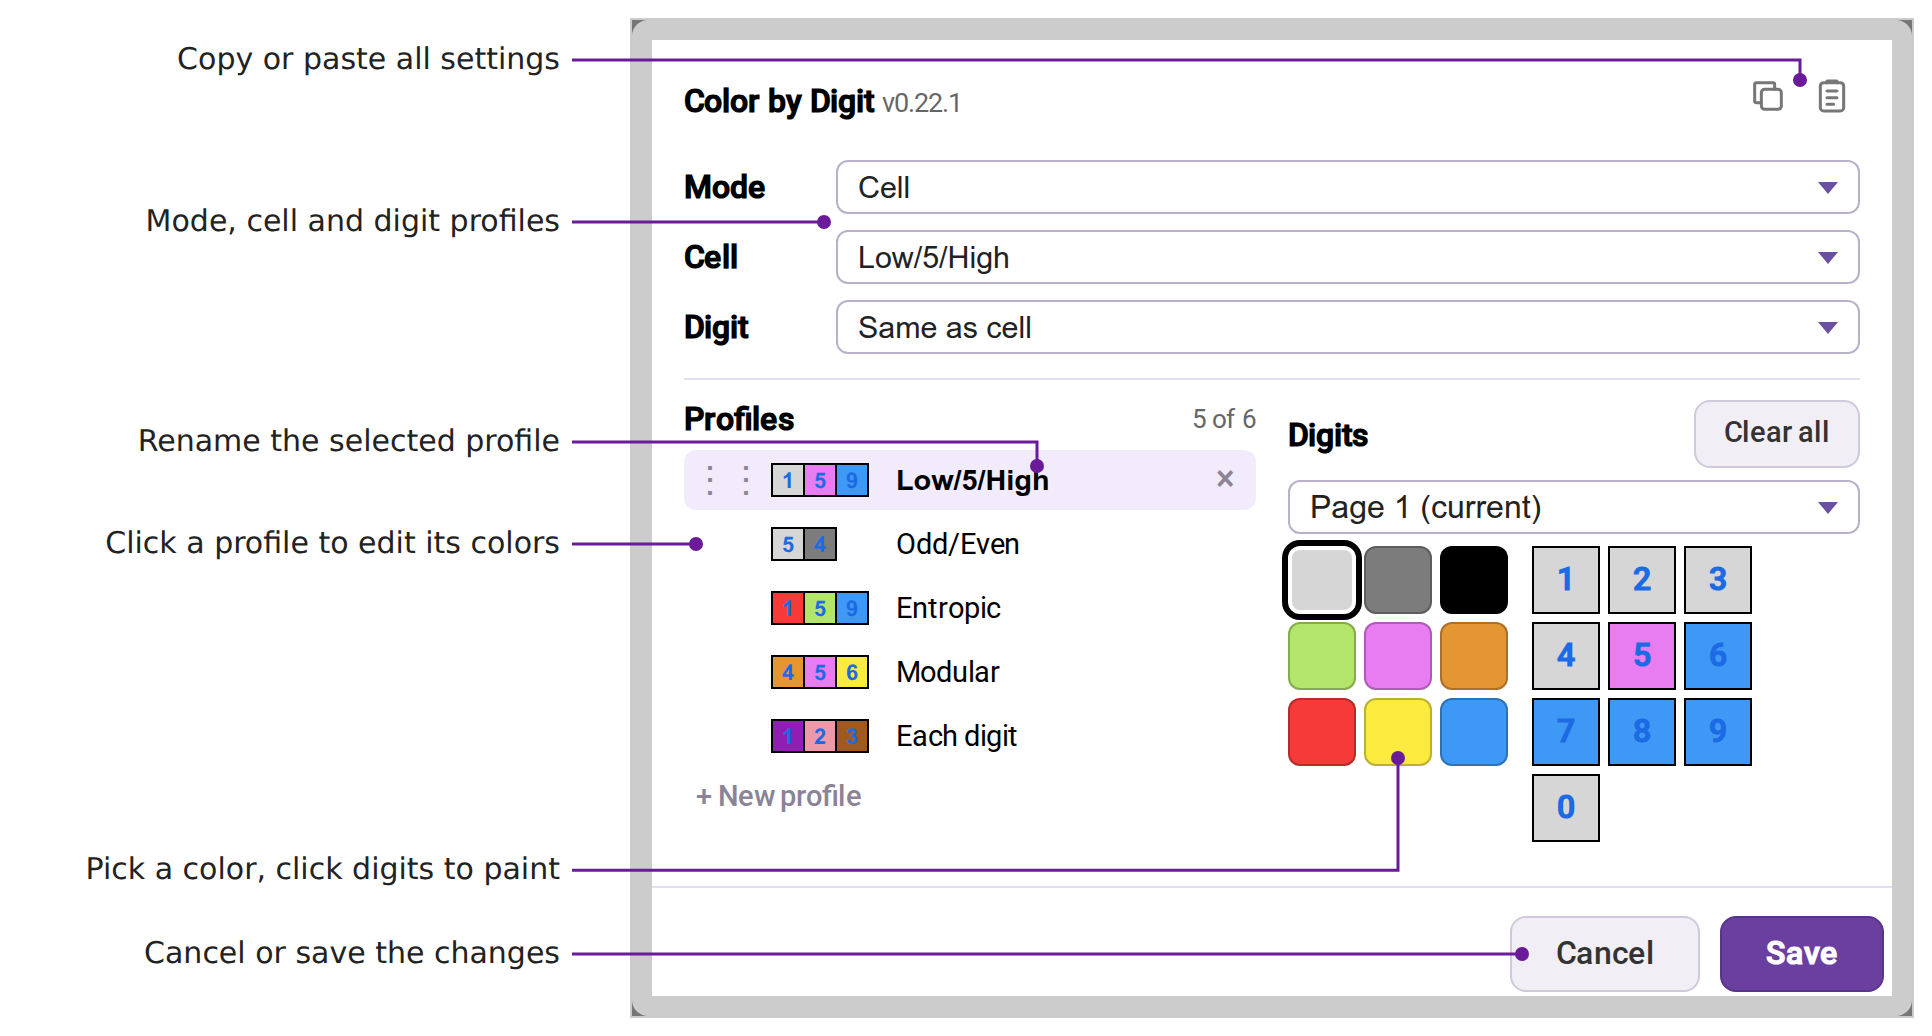
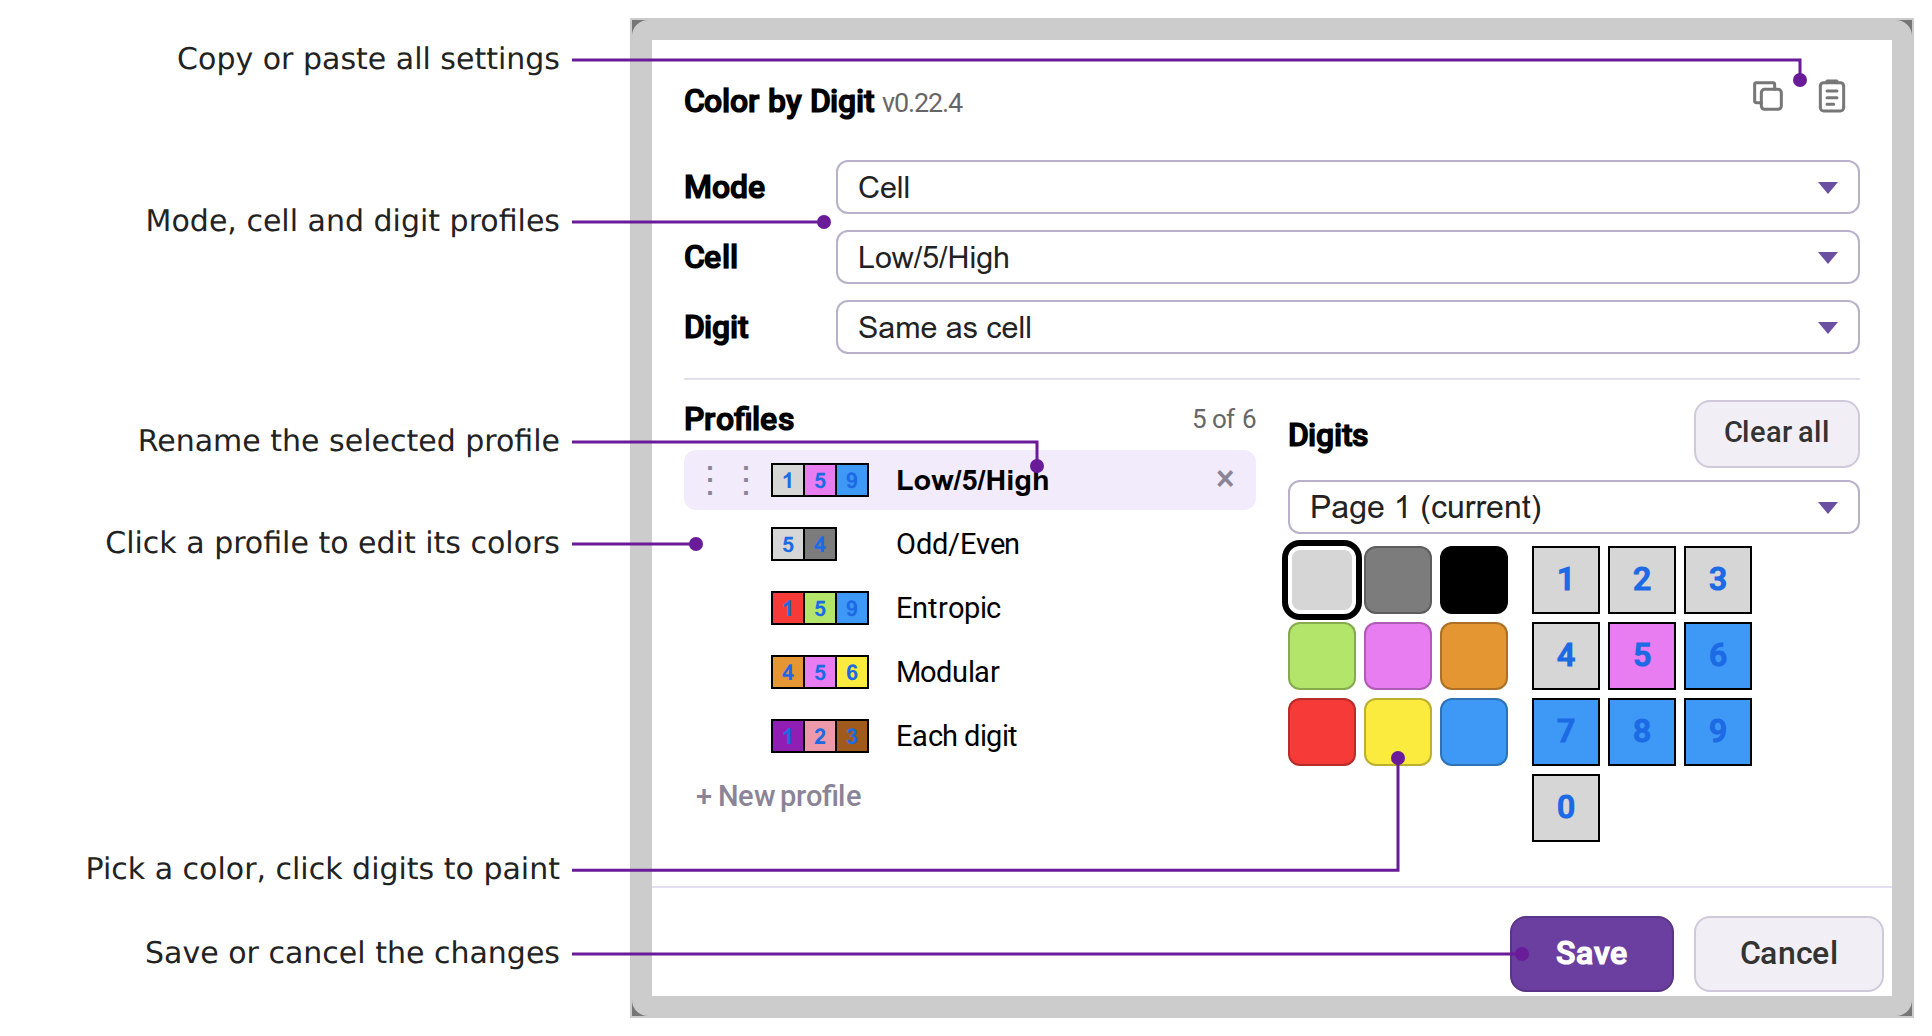
Retake the Color by Digit dialog picture: Save then Cancel (#448)
Closes #448

Changed region(s): [[0.7764, 0.8649, 0.9938, 0.9575], [0.0621, 0.8958, 0.1863, 0.9266]]

diff --git a/site/color-by-digit.html b/site/color-by-digit.html
@@ -54,7 +54,7 @@
 
   <h2>The settings dialog</h2>
   <p class="prose">Edit profiles, in the profile menu, opens it.</p>
-  <div class="figure"><img src="https://raw.githubusercontent.com/caneff/sudokupad-scripts/main/docs/research/color-by-digit/color-by-digit-dialog-annotated.png?v=1e29c70" alt="The Color by Digit settings dialog with each part labelled on its left. Settings icons: copy or paste all settings. Pulldowns: mode, cell and digit profiles. Selected profile: rename it in its row. Profile list: click a profile to edit its colors. Palette and digits: click a color, then click or drag across digits to paint them. Bottom row: cancel or save the changes." width="966" height="514"></div>
+  <div class="figure"><img src="https://raw.githubusercontent.com/caneff/sudokupad-scripts/main/docs/research/color-by-digit/color-by-digit-dialog-annotated.png?v=af5bd0c" alt="The Color by Digit settings dialog with each part labelled on its left. Settings icons: copy or paste all settings. Pulldowns: mode, cell and digit profiles. Selected profile: rename it in its row. Profile list: click a profile to edit its colors. Palette and digits: click a color, then click or drag across digits to paint them. Bottom row: save or cancel the changes." width="966" height="514"></div>
   <p class="prose">A click on a digit already in the chosen color clears it.</p>
 
   <h2>Good to know</h2>

diff --git a/docs/pen-tool-extras.md b/docs/pen-tool-extras.md
@@ -30,7 +30,7 @@ Pen Tool Extras in SudokuPad's settings, or the settings button in the pen panel
 3. **Marks to cycle** (left, below): one table, rows Edge and Corner, columns X, circle and up and down arrow heads (Directions).
 4. **Other** (right, below): White outlines (with Outline width under it) and Right click erase.
 
-The title row ends with two icon buttons, Copy settings (two overlapping squares) and Paste settings (a clipboard); their status message shows to their left. Under the grid, one row of buttons: Restore defaults as small underlined text at the left, Cancel and Save at the right. Every slider and box in it is a draft that takes effect on Save, and Cancel leaves what was in force. All five sliders start at the same x and are 96px long. On a screen too narrow for two columns, the sections stack in one column in the same order.
+The title row ends with two icon buttons, Copy settings (two overlapping squares) and Paste settings (a clipboard); their status message shows to their left. Under the grid, one row of buttons: Save and Cancel at the left, then Restore defaults as small underlined text at the right. Every slider and box in it is a draft that takes effect on Save, and Cancel leaves what was in force. All five sliders start at the same x and are 96px long. On a screen too narrow for two columns, the sections stack in one column in the same order.
 
 ## Colors
 
